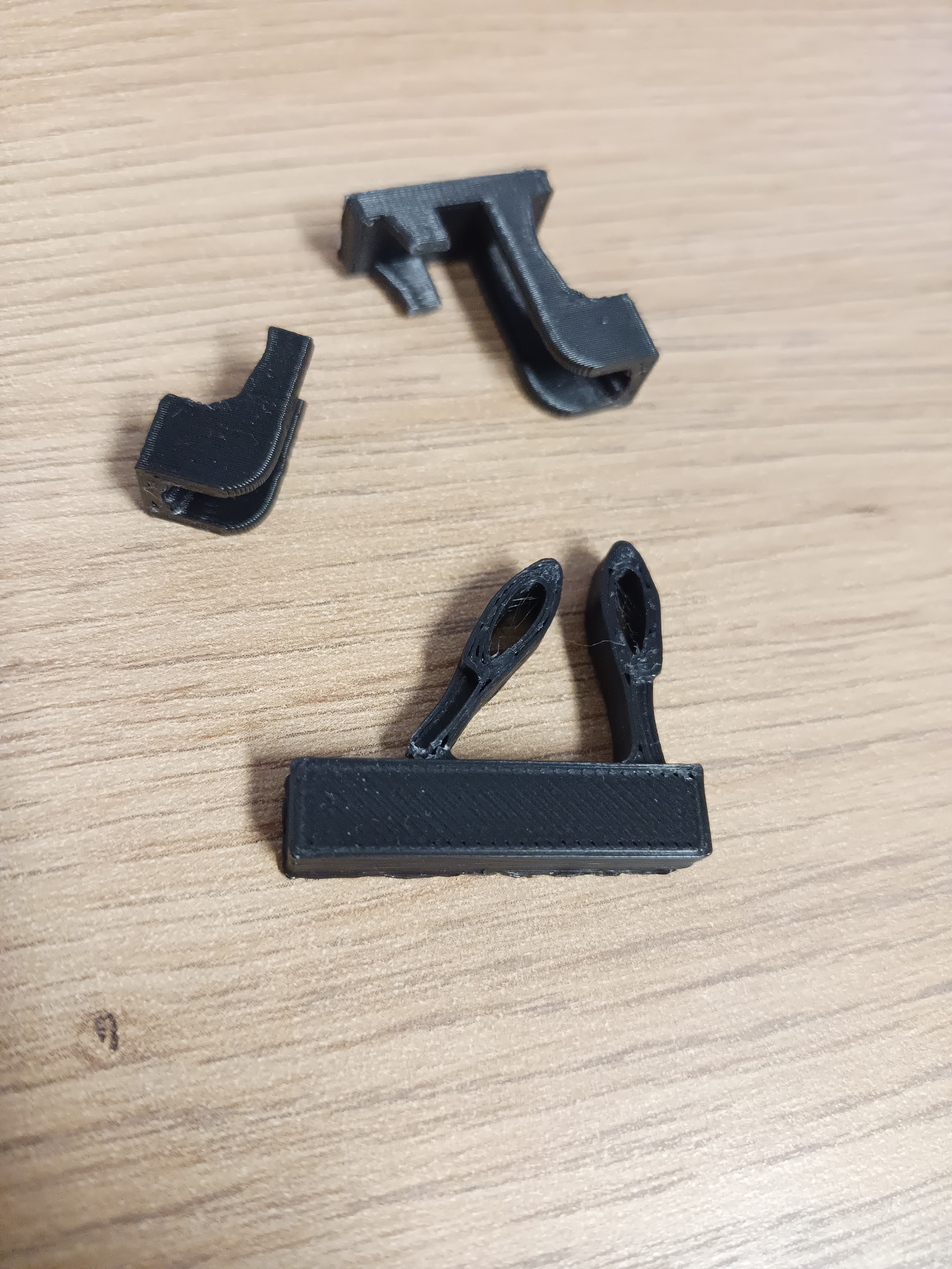
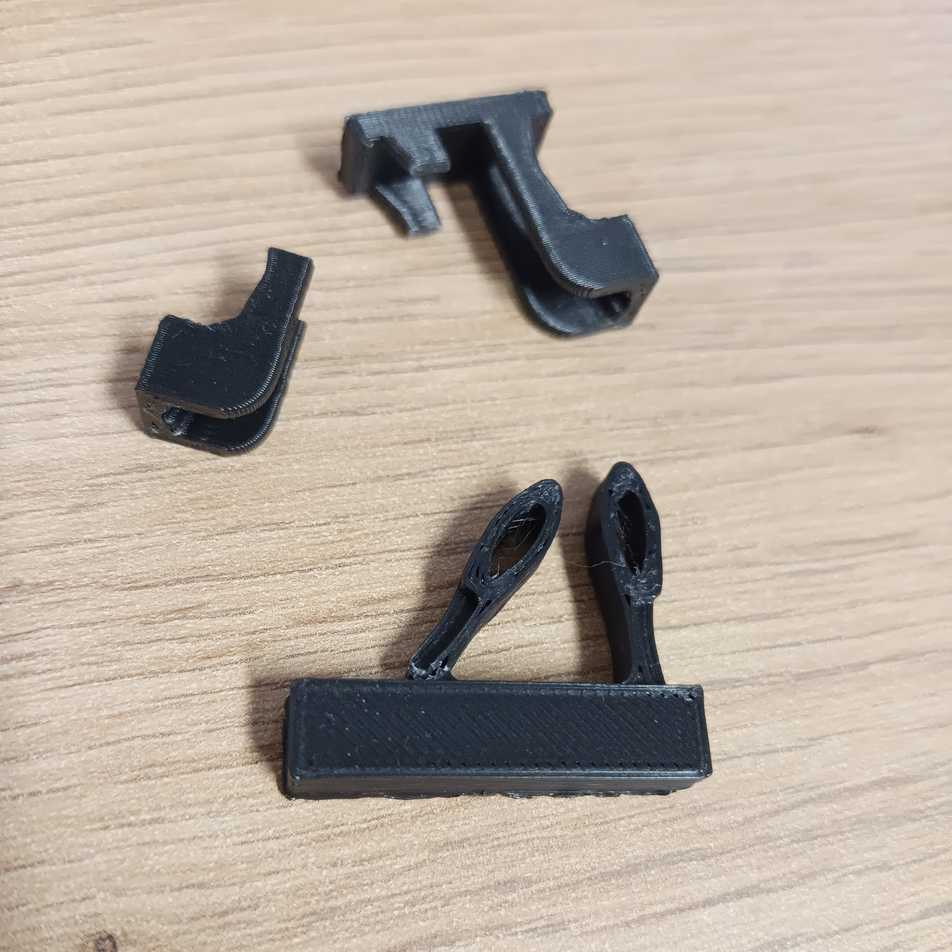
.

diff --git a/web/block_1-2/postup/tesneni.md b/web/block_1-2/postup/tesneni.md
@@ -9,7 +9,8 @@ Zároveň jsem chtěl zjistit zda jsem schopen vytisknout své vlastní vodotěs
 
 ## Tisk s TPU
 
-- Tisk s TPU je trochu zrádný v tom, že TPU je velmi přilnaví a „*lepí*“ se na desku, a proto jsem zvolil, že se zaměřím na tisk na TPU na 2. plast resp. PLA, PETG
+- Tisk s TPU je trochu zrádný v tom, že TPU je velmi přilnaví a „*lepí*“ se na desku, a proto jsem zvolil, že se zaměřím na tisk TPU na 2. plast resp. PLA, PETG
+	- Mohl bych použít nějakou separační vrstvu jako je např. lepidlo, ale pro můj účel je to zbytečné.
 - V době, kdy jsem toto testování dělal, nebyla pro můj typ tiskárny možnost tisknout dva filamenty zároveň s automatickým nastavením teploty atd.
 - Nejdříve jsem na tuto realitu nebral ohled, ale po prvním tisku bylo jasné, že tento problém budu muset nějak vyřešit – a to pomocí manuální úpravy g-code
 

diff --git a/web/block_1-2/teorie_1-2.md b/web/block_1-2/teorie_1-2.md
@@ -60,6 +60,11 @@ Nejpoužívanější materiál pro FDM tisk. Snadno se tiskne, minimální defor
 
  ---
 
+**TPU (Termoplastic polyuretan)**
+Pružný materiál, který je velmi přilnavý a „*lepí*“. Užívá se hlavně v součástkác, kde je potřeba absorpce vibrací a minimální deformace.
+
+ ---
+
 **STL**
 Formát souboru popisující povrch 3D modelu jako soustavu trojúhelníků. Nejrozšířenější formát pro 3D tisk. Neobsahuje informace o barvě nebo materiálu.
 

diff --git a/web/block_1-2/postup/zakazka.md b/web/block_1-2/postup/zakazka.md
@@ -41,9 +41,6 @@ Cílem této zakázky bylo vytvořit napodobeninu známé kooperační hry „Ke
 ![error](../2/box/klapky.jpg)
 *Klakpy tisklé vertikálně*
 
-![error](../2/box/box%klapky.png)
-*Klakpy montované do víka*
-
 ![error](../2/box/tisk.png)
 *Tisk v Prusa Sliceru*
 
